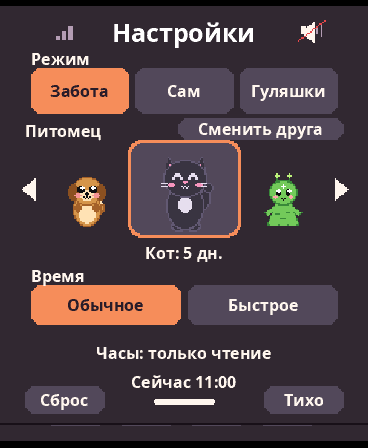
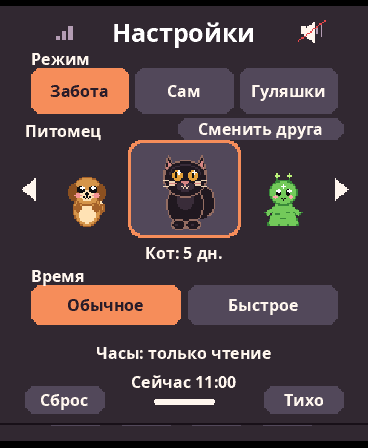
docs: show the revised pets and whole-sprite roll frames

Changed region(s): [[0.4185, 0.3438, 0.5978, 0.5312]]

diff --git a/docs/SCREENSHOTS_RU.md b/docs/SCREENSHOTS_RU.md
@@ -31,6 +31,12 @@
 | <a href="img/medvegoshi-ru/bjorni-gulyashki.png"><img src="img/medvegoshi-ru/bjorni-gulyashki.png" width="194" alt="Бйорни — Гуляшки"></a> | <a href="img/medvegoshi-ru/bjorni-switch-confirm.png"><img src="img/medvegoshi-ru/bjorni-switch-confirm.png" width="194" alt="Бйорни — Смена друга"></a> |
 | «Поле 1»: ходьба вправо | «Сменить друга? Прогресс сохранится» |
 
+## Как питомцы кувыркаются
+
+Кот, Капи и Слон теперь хорошо различаются даже в меню. Серия из эмулятора показывает, как поворачивается весь спрайт: глаза, лапы, уши, хвост и хобот остаются на месте относительно тела.
+
+[![Пять фаз кувырка у Кота, Капи и Слона](img/medvegoshi-ru/pets-turn.png)](img/medvegoshi-ru/pets-turn.png)
+
 ### Как переснять
 
 В ветке [русской версии](https://github.com/Medvedolog/medvegoshi/tree/feature/russian-game-ui) запусти <code>python -m ports.render_zoo_gallery --out build/zoo-gallery</code>. Эмулятор использует временные сохранения и не обращается к физической плате. [Описание сцен и контрольные суммы](img/medvegoshi-ru/gallery/gallery.json).
